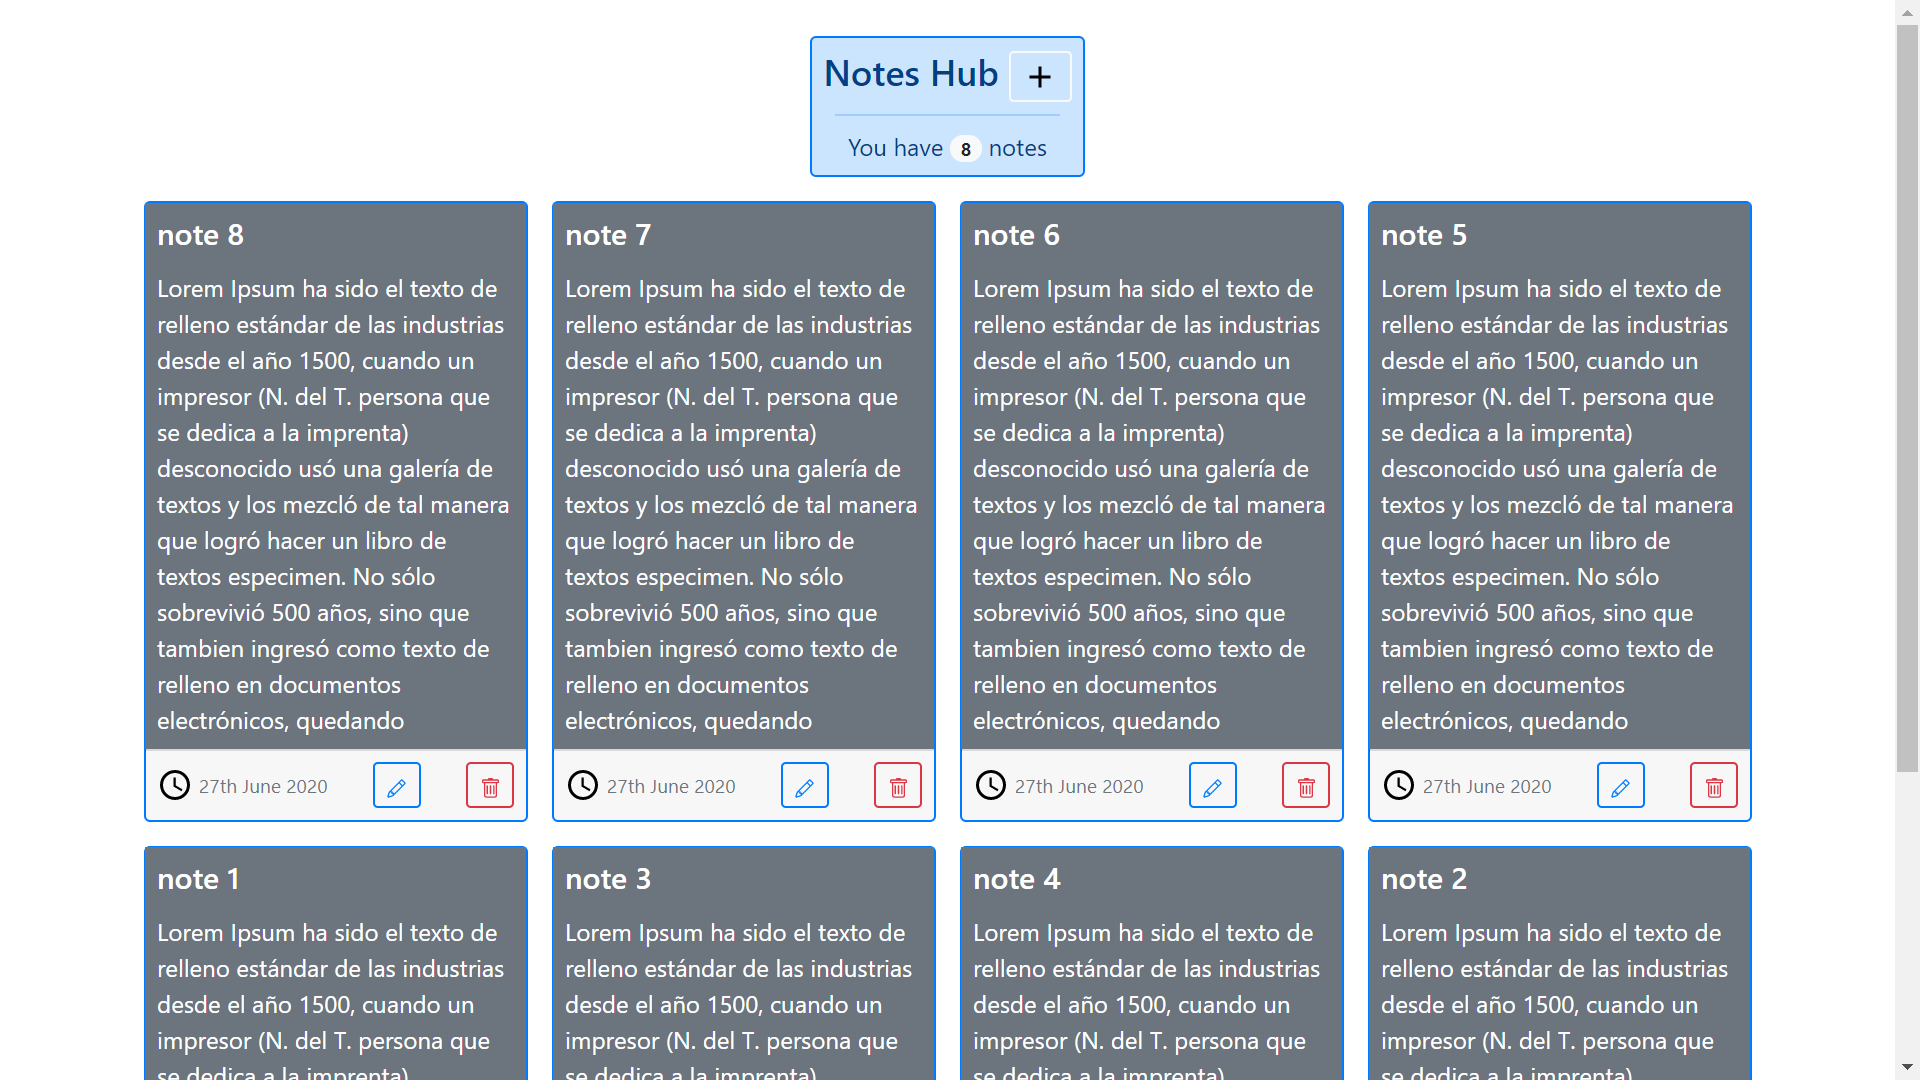
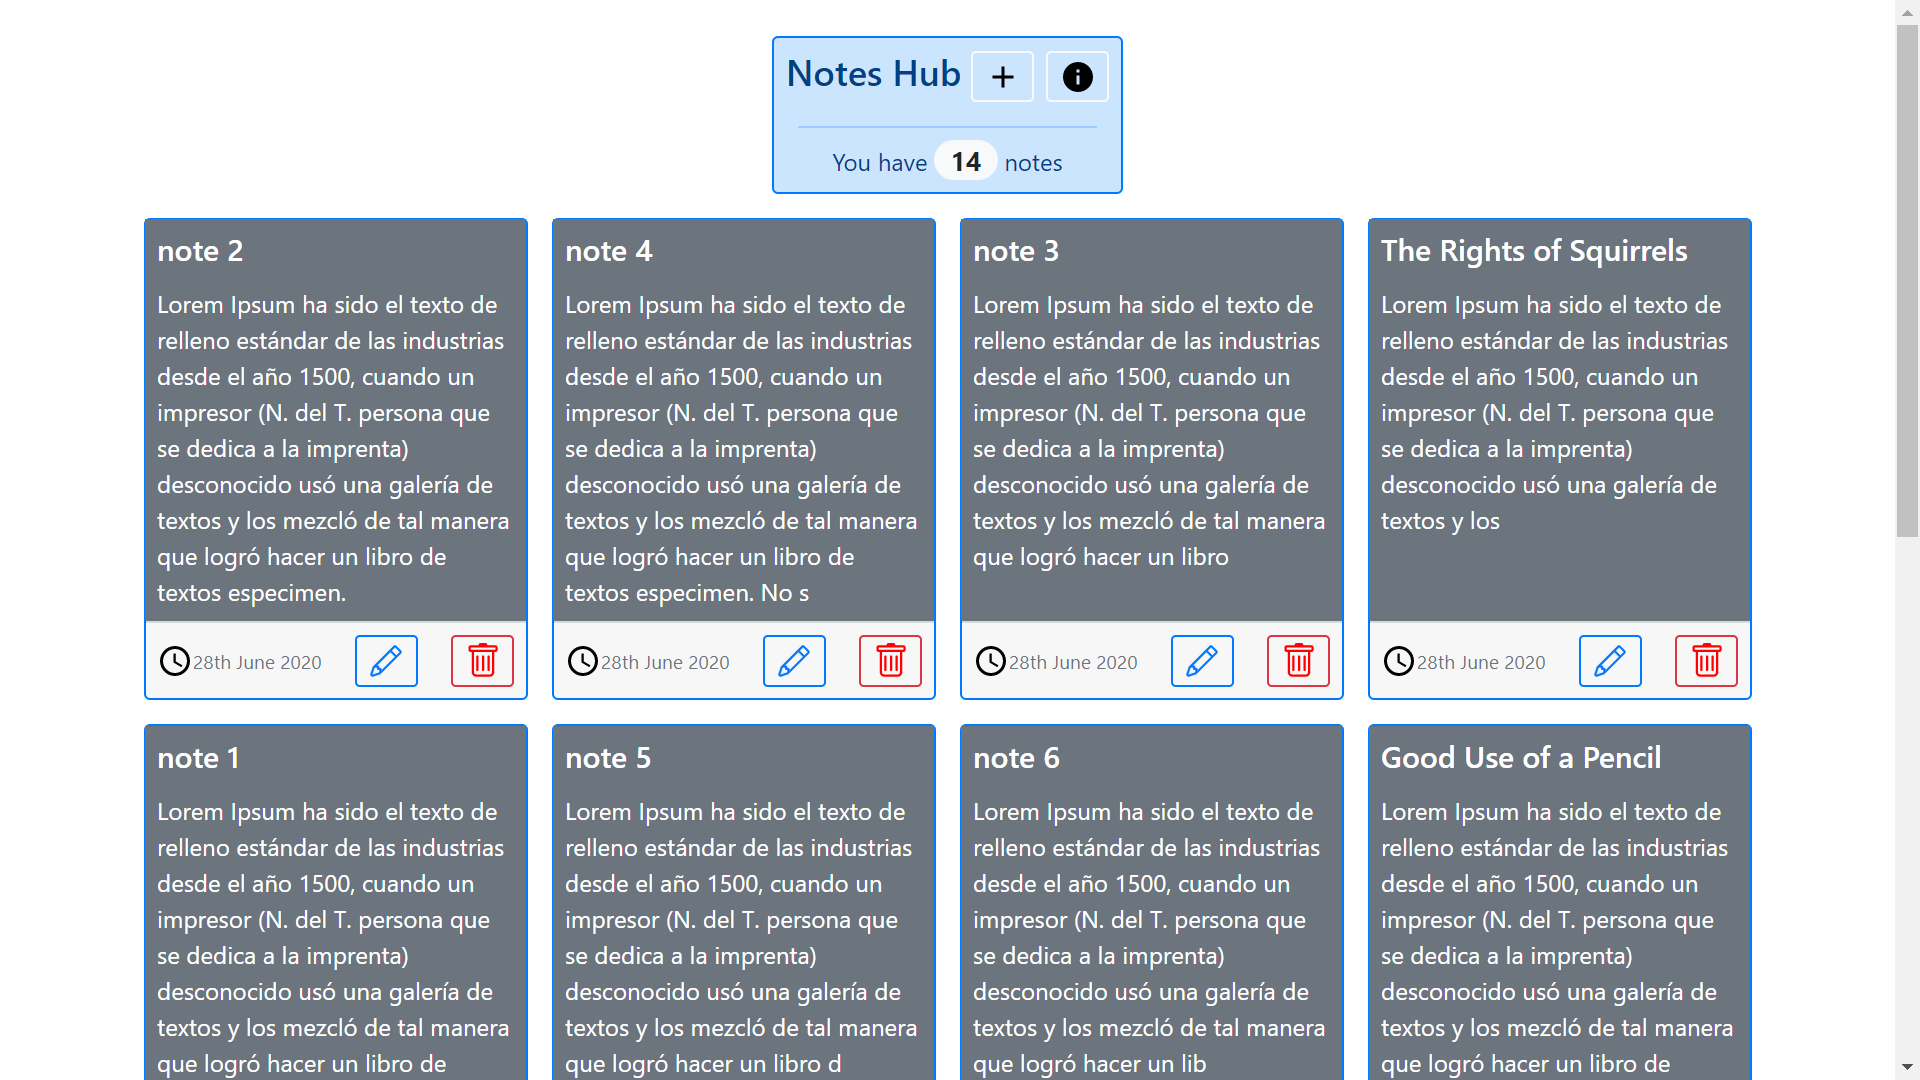
note edit and create pages body-length calculation added

Changed region(s): [[0.0625, 0.0306, 0.9375, 1.0], [0.9688, 0.4889, 1.0, 0.7333]]

diff --git a/client/src/views/Edit.vue b/client/src/views/Edit.vue
@@ -1,26 +1,70 @@
 <template>
   <div>
-    <h1>Edit Note</h1>
+    <div class="d-flex justify-content-center">
+      <div class="alert alert-primary border-primary p-2 m-0" role="alert">
+        <h4 class="alert-heading text-center">Edit Note</h4>
+        <hr class="m-2" />
+        <p class="mb-0 text-center">
+          You have
+          <span
+            class="badge badge-pill badge-light text-dark"
+            style="font-size: 0.9em;"
+            v-bind:class="{'text-danger': hasError }"
+          >{{ remainingCount }}</span> characters
+        </p>
+      </div>
+    </div>
+    <br />
     <form @submit.prevent="updateNote">
-      <div class="row">
+      <div class="row justify-content-center">
         <div class="col-md-6">
           <div class="form-group">
             <label>Note Title:</label>
-            <input type="text" class="form-control" v-model="note.title" />
+            <input
+              id="title"
+              type="text"
+              class="form-control"
+              v-model="note.title"
+              minlength="4"
+              maxlength="23"
+              placeholder="Enter at least 4 characters"
+            />
           </div>
         </div>
       </div>
-      <div class="row">
+      <div class="row justify-content-center">
         <div class="col-md-6">
           <div class="form-group">
             <label>Note Body:</label>
-            <textarea class="form-control" v-model="note.body" rows="5"></textarea>
+            <textarea
+              id="body"
+              class="form-control"
+              v-model="note.body"
+              v-on:keyup="countdown"
+              minlength="4"
+              maxlength="280"
+              rows="9"
+              placeholder="Enter at least 4 characters"
+            ></textarea>
           </div>
         </div>
       </div>
       <br />
-      <div class="form-group">
-        <button class="btn btn-primary">Update</button>
+      <div class="row justify-content-center">
+        <div class="form-group">
+          <div class="col-md-6 d-flex">
+            <button class="btn btn-primary mr-4" :disabled="isDisabled">Update</button>
+            <button
+              type="button"
+              class="btn btn-warning mr-4"
+              :disabled="!note.title && !note.body"
+              @click.prevent="clearInputs()"
+            >Clear</button>
+            <button type="button" class="btn btn-danger" @click.prevent="backToNotes()">Cancel</button>
+          </div>
+
+          <!-- <button class="btn btn-primary">Update</button> -->
+        </div>
       </div>
     </form>
   </div>
@@ -30,21 +74,48 @@
 export default {
   data() {
     return {
-      note: {}
+      note: {},
+      maxCount: 280,
+      remainingCount: 280,
+      title: "",
+      body: "",
+      hasError: false,
+      isDisabled: false,
+      initialBodyLength: 0
     };
   },
   created() {
     const uri = `/notes/edit/${this.$route.params.id}`;
     this.axios.get(uri).then(response => {
       this.note = response.data;
+      this.initialBodyLength = this.note.body.length;
+      this.remainingCount = 280 - this.initialBodyLength;
     });
+    this.calcRemaining();
   },
   methods: {
     updateNote() {
+      // this.note.date = Date.now();
       const uri = `/notes/update/${this.$route.params.id}`;
       this.axios.post(uri, this.note).then(() => {
         this.$router.push({ name: "notes" });
       });
+    },
+    clearInputs() {
+      this.note = {};
+      this.isDisabled = true;
+      this.remainingCount = 280;
+    },
+    backToNotes() {
+      this.$router.push("/");
+    },
+    countdown: function() {
+      this.calcRemaining();
+      this.hasError = this.remainingCount < 5;
+      this.isDisabled = this.note.title.length < 4 || this.note.body.length < 4;
+    },
+    async calcRemaining() {
+      this.remainingCount = this.maxCount - this.note.body.length;
     }
   }
 };

diff --git a/client/src/views/Create.vue b/client/src/views/Create.vue
@@ -1,24 +1,67 @@
 <template>
   <div>
+    <div class="d-flex justify-content-center">
+      <div class="alert alert-primary border-primary p-2 m-0" role="alert">
+        <h4 class="alert-heading text-center">Create Note</h4>
+        <hr class="m-2" />
+        <p class="mb-0 text-center">
+          You have
+          <span
+            class="badge badge-pill badge-light text-dark"
+            style="font-size: 0.9em;"
+            v-bind:class="{'text-danger': hasError }"
+          >{{ remainingCount }}</span> characters
+        </p>
+      </div>
+    </div>
+    <br />
     <form @submit.prevent="addNote">
-      <div class="row">
+      <div class="row justify-content-center">
         <div class="col-md-6">
           <div class="form-group">
             <label>Note Title:</label>
-            <input type="text" class="form-control" v-model="note.title" />
+            <input
+              id="title"
+              type="text"
+              class="form-control"
+              v-model="note.title"
+              minlength="4"
+              maxlength="23"
+              placeholder="Enter at least 4 characters"
+            />
           </div>
         </div>
       </div>
-      <div class="row">
+      <div class="row justify-content-center">
         <div class="col-md-6">
           <div class="form-group">
             <label>Note Body:</label>
-            <textarea class="form-control" v-model="note.body" rows="5"></textarea>
+            <textarea
+              id="body"
+              class="form-control"
+              v-model="note.body"
+              v-on:keyup="countdown"
+              minlength="4"
+              maxlength="280"
+              rows="9"
+              placeholder="Enter at least 4 characters"
+            ></textarea>
           </div>
         </div>
       </div>
-      <div class="form-group">
-        <button class="btn btn-primary">Create</button>
+      <div class="row justify-content-center">
+        <div class="form-group">
+          <div class="col-md-6 d-flex">
+            <button class="btn btn-primary mr-4" :disabled="isDisabled">Create</button>
+            <button
+              type="button"
+              class="btn btn-warning mr-4"
+              :disabled="!note.title && !note.body"
+              @click.prevent="clearInputs()"
+            >Clear</button>
+            <button type="button" class="btn btn-danger" @click.prevent="backToNotes()">Cancel</button>
+          </div>
+        </div>
       </div>
     </form>
   </div>
@@ -28,7 +71,13 @@
 export default {
   data() {
     return {
-      note: {}
+      note: {},
+      maxCount: 280,
+      remainingCount: 280,
+      title: "",
+      body: "",
+      hasError: false,
+      isDisabled: true
     };
   },
   methods: {
@@ -37,6 +86,19 @@ export default {
       this.axios.post(uri, this.note).then(() => {
         this.$router.push({ name: "notes" });
       });
+    },
+    clearInputs() {
+      this.note = {};
+      this.isDisabled = true;
+      this.remainingCount = 280;
+    },
+    backToNotes() {
+      this.$router.push("/");
+    },
+    countdown: function() {
+      this.remainingCount = this.maxCount - this.note.body.length;
+      this.hasError = this.remainingCount < 5;
+      this.isDisabled = this.note.title.length < 4 || this.note.body.length < 4;
     }
   }
 };

diff --git a/client/src/views/Info.vue b/client/src/views/Info.vue
@@ -1,37 +1,39 @@
 <template>
   <div class="d-flex justify-content-center">
     <div class="card border-primary" style="max-width: 700px">
-      <div class="card-header">
+      <div class="card-header" style="background-color: #cce5ff">
         <h5 class="card-title text-center mb-0">About App</h5>
       </div>
       <div class="card-body text-white bg-secondary p-2">
         <p
           class="card-text"
         >This app displays simple text notes in a responsive grid of Bootstrap cards. It uses the MongoDB, Express, Vue & Node.js (MEVN) stack to allow the user to perform Create, Read, Update and Delete (CRUD) operations.</p>
-        <p class="card-text">The 'Notes Hub' tells the user how many notes there are using the notes array.length property.</p>
-        <p class="card-text">Once a note is added then the grid of notes is reloaded from the backend database. This was preferred to using an array.splice operation on the front-end data.</p>
-        <p class="card-text">Axios, a promise-based HTTP client, is used to send/receive data asynchronously from the MongoDB backend</p>
+        <p
+          class="card-text"
+        >The 'Notes Hub' tells the user how many notes there are using the notes array.length property.</p>
+        <p
+          class="card-text"
+        >Once a note is added then the grid of notes is reloaded from the backend database. This was preferred to using an array.splice operation on the front-end data.</p>
+        <p
+          class="card-text"
+        >Axios, a promise-based HTTP client, is used to send/receive data asynchronously from the MongoDB backend.</p>
+        <p
+          class="card-text"
+        >The note create page includes a character countdown display to show the user how many characters are left from the 280 character maximum (same max. length as a Twitter tweet). There are buttons to Create (save to the database), Clear both input fields and Cancel to return to the Notes List page. The note edit page is very similar and also calculates the note body characters left.</p>
       </div>
-      <div class="card-footer p-2">
-        <small class="text-muted d-flex justify-content-center">
+      <div class="card-footer p-2" style="background-color: #cce5ff">
+        <div class="text-muted d-flex justify-content-center">
           <button
             type="button"
-            class="btn btn-outline-primary btn-sm"
+            class="btn btn-outline-dark"
             @click.prevent="backToNotes()"
           >
-<!--             <svg
-              xmlns="http://www.w3.org/2000/svg"
-              height="24"
-              viewBox="0 0 24 24"
-              width="24"
-              fill="currentColor"
-            >
-              <path d="M0 0h24v24H0z" fill="none" />
-              <path d="M20 11H7.83l5.59-5.59L12 4l-8 8 8 8 1.41-1.41L7.83 13H20v-2z" />
-            </svg> -->
-            <img src="../assets/static/arrow_back-24px.svg" alt="button to navigate back to list of notes" />
+            <img
+              src="../assets/static/arrow_back-24px.svg"
+              alt="button to navigate back to list of notes"
+            />
           </button>
-        </small>
+        </div>
       </div>
     </div>
   </div>
@@ -41,7 +43,6 @@
 export default {
   data() {
     return {
-      note: {}
     };
   },
   created() {},

diff --git a/client/src/views/Index.vue b/client/src/views/Index.vue
@@ -36,7 +36,7 @@
     <div class="container-fluid mt-3">
       <div class="row justify-content-center">
         <div
-          class="col-auto mb-3 pl-2 pr-2 justify-content-center"
+          class="col-auto mb-3 pl-2 pr-2 justify-content-center d-flex align-items-stretch"
           v-for="note in notes"
           :key="note._id"
         >

diff --git a/controllers/note.controllers.js b/controllers/note.controllers.js
@@ -44,6 +44,7 @@ exports.post_updated_note = async (req, res) => {
     else {
       note.title = req.body.title;
       note.body = req.body.body;
+      note.date = Date.now();
       note
         .save()
         .then(() => {

diff --git a/README.md b/README.md
@@ -1,6 +1,6 @@
 # :zap: MEVN Stack Notes
 
-* This app displays simple text notes in a grid of Bootstrap cards. It uses the MongoDB, Express, Vue & Node.js (MEVN) stack to allow the user to perform Create, Read, Update and Delete (CRUD) operations.
+* This app displays simple text notes in a grid of Bootstrap cards. It uses the MongoDB, Express, Vue & Node.js (MEVN) stack to perform Create, Read, Update and Delete (CRUD) operations.
 
 **Note:** to open web links in a new window use: _ctrl+click on link_
 
@@ -21,14 +21,17 @@
 ## :books: General info
 
 * Axios used to send/receive data from the MongoDB backend
-* A responsive grid of notes is displayed on the Vue frontend using data-binding and a v-for loop. Clicking on the + icon in the header alert box navigates to an 'add note' page. Once a note is added then the grid of notes is reloaded.
+* A responsive grid of notes is displayed on the Vue frontend using data-binding and a v-for loop. Once a note is added then the grid of notes is reloaded.
 * There is an app info page
 
 ## :camera: Screenshots
 
 ![Example screenshot](./img/notes.png)
+![Example screenshot](./img/create.png)
+![Example screenshot](./img/edit.png)
 ![Example screenshot](./img/mongodb.png)
 ![Example screenshot](./img/backend.png)
+![Example screenshot](./img/info.png)
 
 ## :signal_strength: Technologies
 
@@ -87,17 +90,20 @@ exports.post_note = async (req, res) => {
 
 ## :cool: Features
 
-* Heroku deployment saves user notes using Heroku MongoDB database extension.
-* In dev - Front and backends can be run with one command using concurrently set up in package.json
+* [Heroku deployment](https://mevn-stack-notes.herokuapp.com/) saves user notes using Heroku MongoDB database extension
+* Heroku auto updates deployment when I commit code updates to Github
+* In dev - Front and backends are run with one command using concurrently set up in package.json
 * Display of card array is responsive so they wrap around nicely as screen size changes
-* [Deployed to Heroku](https://mevn-stack-notes.herokuapp.com/)
 * Simple 'Notes Hub' tells user how many notes there are and lets them navigate to the add note or app info pages
+* note max title length set to 23 so shows on 1 line in card
+* note max content length set to 280, same as a twitter post
 * backend code separates controller functions from routes
+* Updating a note will automatically update the date so it goes to the front of the (date-sorted) notes list
 
 ## :clipboard: Status & To-Do List
 
 * Status: Working. Deployed. Dependencies updated and no vulnerabilities
-* To-Do: add cancel button to edit vue. add max note title (40?) and body length (300?) etc. add characters remaining? Make sure all notes in line are same height. Add app info nav link
+* To-Do: resolve note.body.length error when in note edit mode
 
 ## :clap: Inspiration
 
